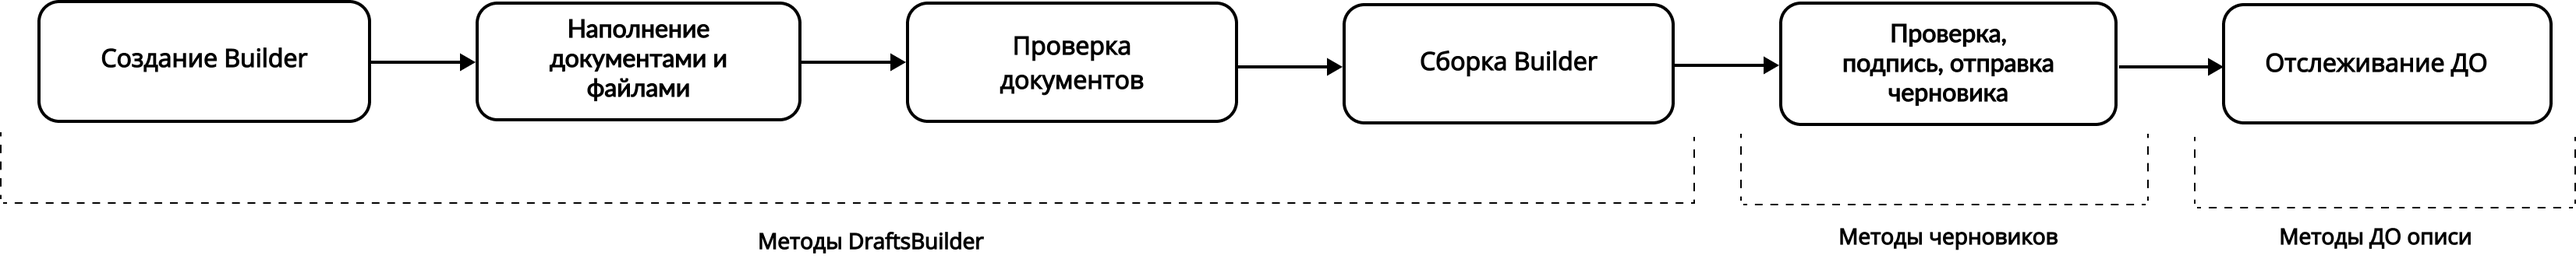
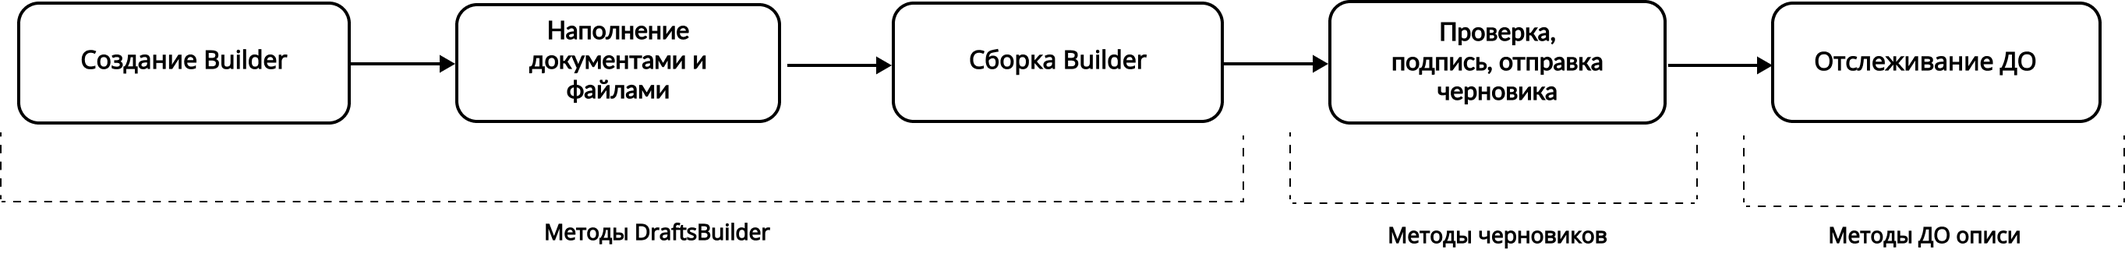
pravki inventory

diff --git a/docs/scenarios/FNS/demand/inventory.rst b/docs/scenarios/FNS/demand/inventory.rst
@@ -40,7 +40,10 @@
 
 .. image:: /_static/invent_proc.png
 
-.. note:: Если файлы пользователя уже приведены к нужному формату и есть XML-файл описи к документам, вы можете пропустить шаги 1-4 по работе с DraftsBuilder и сразу работать с методами черновика документооборота. 
+.. note:: 
+    Если файлы не соответствуют нужному формату, то подпись нужно прикладывать к файлам после шага 4 – этапа сборки DraftsBuilder.
+
+    Если файлы уже приведены к нужному формату и есть XML-файл описи к документам, можно пропустить шаги 1-4 по работе с DraftsBuilder и сразу работать с методами черновика документооборота.
 
 1. Создание DraftsBuilder методом :ref:`POST CreateDraftsBuilder<rst-markup-createDB>`
 
@@ -62,9 +65,7 @@
 
  Метод собирает все добавленные файлы и документы DraftsBuilder шаблона в черновики. В результате метод вернет идентификаторы черновиков, в каждом из которых находится: XML-файл описи, файлы, сообщение о представительстве (если есть).
  
- Для редактирования содержимого DraftsBuilder смотри описание :doc:`методов DraftsBuilder</builder/методы билдера>`.
-
- .. note:: На этапе сборки DraftsBuilder сервис автоматически приведет приложенные файлы к нужному формату. Если изначально были приложены файлы не по установленному формату, рекомендуем добавлять подпись к подготовленный файлам после сборки.  
+ Для редактирования содержимого DraftsBuilder смотри описание :doc:`методов DraftsBuilder</builder/методы билдера>`.  
 
 5. Работа с черновиком. 
 
